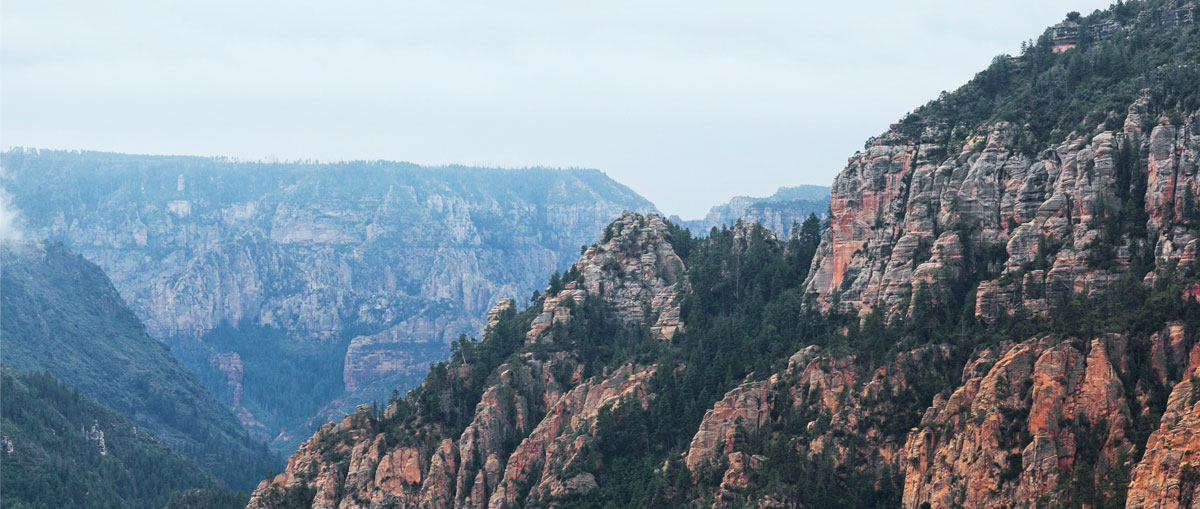
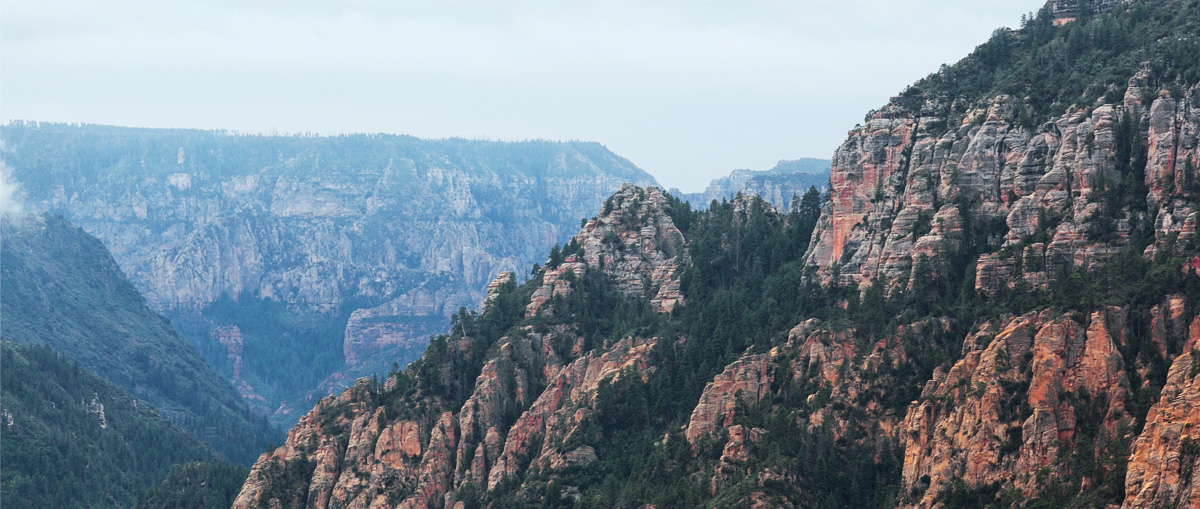
Исправление замечаний
- заменил фоновое изображение intro

index.html
- Убрал лишние br, подправил отступы, чтобы все смотрелось как на макете
- заменил дефис короткий на длинный как в макете

diff --git a/index.html b/index.html
@@ -28,15 +28,15 @@
         <section class="advantages">
           <div class="advantages-title">
             <h2 class="visually-hidden">Преимущества</h2>
-            <p class="advantages-description">Седона — небольшой городок в Аризоне, заслуживающий большего!</p>
+            <p class="advantages-description">Седона &mdash; небольшой городок в Аризоне, заслуживающий большего!</p>
             <p class="advantages-intro">Рассмотрим 5 причин, по которым Седона круче, чем гранд каньон!</p>
           </div>
 
           <div class="advantage-wide">
             <div class="advantage-text">
-              <h3>Настоящий<br> городок</h3>
-              <p>-№1-</p>
-              <p>Седона - не аттракцион для туристов, там течет своя жизнь</p>
+              <h3>Настоящий городок</h3>
+              <p>&mdash; №1 &mdash;</p>
+              <p>Седона &mdash; не аттракцион для туристов, там течет своя жизнь</p>
             </div>
             <div class="advantage-image">
               <img src="img/advantage-1.jpg" alt="Улицы города Седона" width="800" height="401">
@@ -52,7 +52,7 @@
             <div class="feature">
             <img src="img/icon-2-burger.svg" alt="Еда" width="64" height="76">
               <h3>Еда</h3>
-              <p>Всегда щакащывайте фирменный бургер, вы не разочаруетесь!</p>
+              <p>Всегда заказывайте фирменный бургер, вы не разочаруетесь!</p>
             </div>
             <div class="feature">
             <img src="img/icon-3-gift.svg" alt="Сувениры" width="74" height="70">
@@ -67,26 +67,26 @@
             </div>
             <div class="advantage-text">
               <h3>Там есть<br> мост дьявола</h3>
-              <p>-№2-</p>
+              <p>&mdash; №2 &mdash;</p>
               <p>Да, по нему можно пройти! Если конечно вы осмелитесь</p>
             </div>
           </div>
 
           <div class="advantages-list">
             <div class="advantage">
-              <h3>Небольшая<br> площадь</h3>
-              <p>-№3-</p>
-              <p>Все достопримечательности находятся очень близко</p>
+              <h3>Небольшая площадь</h3>
+              <p>&mdash; №3 &mdash;</p>
+              <p>Все достопримечательности находятся&nbsp;очень близко</p>
             </div>
             <div class="advantage">
-              <h3>Красивая<br> дорога</h3>
-              <p>-№4-</p>
-              <p>Ехать в Седону из Лас-Вегаса совсем не скучно!</p>
+              <h3>Красивая дорога</h3>
+              <p>&mdash; №4 &mdash;</p>
+              <p>Ехать в Седону из Лас-Вегаса совсем не&nbsp;скучно!</p>
             </div>
             <div class="advantage">
-              <h3>Мало<br> туристов</h3>
-              <p>-№5-</p>
-              <p>Большинстов едет в гранд каньон и толпится там</p>
+              <h3>Мало туристов</h3>
+              <p>&mdash; №5 &mdash;</p>
+              <p>Большинстов едет в гранд каньон и&nbsp;толпится там</p>
             </div>
           </div>
         </section>
@@ -139,7 +139,6 @@
           </div>
         </section>
         <section class="main-map">
-          <!-- Здесь будет интерактивная карта-->
           <h2 class="visually-hidden">Как до нас добраться</h2>
           <img src="img/map.jpg" width="1200" height="594" alt="Google maps">
         </section>

diff --git a/css/style.css b/css/style.css
@@ -52,6 +52,7 @@ input[type="radio"].visually-hidden {
   /* изменил позиционирование, чтобы при переполнении лого не уезжало вниз */
   position: absolute;
   width: 140px;
+  top: -1px;
   left: 50%;
   margin-left: -70px;
   order: 2;
@@ -65,7 +66,7 @@ input[type="radio"].visually-hidden {
 }
 .main-navigation li {
   width: 240px;
-  padding: 15px 0;
+  padding: 14px 0 16px 0;
   text-align: center;
 }
 .main-navigation li:nth-child(4n+2) {
@@ -117,9 +118,11 @@ input[type="radio"].visually-hidden {
   line-height: 21px;
   margin: 0;
   margin-bottom: 24px;
+  padding: 0 75px;
+  word-wrap: break-word;
 }
 .advantages-title {
-  margin-bottom: 50px;
+  margin-bottom: 51px;
 }
 .advantages-description,
 .advantages-intro {
@@ -167,7 +170,7 @@ input[type="radio"].visually-hidden {
 .feature {
   box-sizing: border-box;
   width: 33.333333%;
-  padding: 55px 49px 70px 49px;
+  padding: 57px 49px 60px 49px;
 }
 .feature img {
   width: 75px;
@@ -180,6 +183,7 @@ input[type="radio"].visually-hidden {
 .features p,
 .advantages-list p {
   color: #333333;
+  word-wrap: break-word;
 }
 .advantages-list {
   display: flex;
@@ -200,7 +204,7 @@ input[type="radio"].visually-hidden {
 }
 .search-description {
   margin-top: 23px;
-  margin-bottom: 50px;
+  margin-bottom: 47px;
   padding: 0 360px;
   font-size: 14px;
   line-height: 24px;
@@ -252,9 +256,6 @@ input[type="radio"].visually-hidden {
   position: relative;
   margin-top: 0;
   margin-bottom: 30px;
-}
-.search-popup p:nth-child(1) {
-  margin-top: 0;
 }
 .search-popup label {
   width: 110px;
@@ -328,7 +329,7 @@ input[type="radio"].visually-hidden {
 }
 .form-half-column {
   display: flex;
-  margin-bottom: 20px;
+  margin-bottom: 23px;
 }
 .half-column {
   width: 226px;
@@ -341,6 +342,10 @@ input[type="radio"].visually-hidden {
   width: 114px;
   padding: 0 38px;
   text-align: center;
+}
+.main-map {
+  line-height: 0;
+  font-size: 0;
 }
 
 /* Main footer on all pages */
@@ -431,18 +436,19 @@ input[type="radio"].visually-hidden {
 
 .catalog-filter {
   display: flex;
-  padding: 30px 70px;
+  padding: 27px 72px 32px 72px;
 }
 .catalog-filter fieldset {
   box-sizing: border-box;
   margin: 0;
   padding: 0;
   border: none;
-  width: 250px;
-  padding-right: 10px;
+  width: 255px;
 }
 .catalog-filter legend{
-  margin-bottom: 25px;
+  font-size: 16px;
+  line-height: 21px;
+  margin-bottom: 24px;
 }
 .catalog-filter fieldset:nth-child(2) {
   margin-right: auto;
@@ -458,7 +464,7 @@ input[type="radio"].visually-hidden {
 }
 .catalog-filter li {
   position: relative;
-  margin-bottom: 22px;
+  margin-bottom: 25px;
   padding-left: 40px;
 }
 .catalog-filter li:last-child {
@@ -479,7 +485,7 @@ input[type="radio"].visually-hidden {
   background-image: url("../img/checkbox-on.svg");
 }
 .catalog-filter .filter-range {
-  width: 330px;
+  width: 318px;
   padding-right: 0;
 }
 .filter-range  legend{
@@ -488,7 +494,7 @@ input[type="radio"].visually-hidden {
 
 .filter-range-price {
   position: relative;
-  height: 34px;
+  height: 32px;
   border: 2px solid #ffffff;
   border-radius: 2px;
   margin-bottom: 20px;
@@ -507,11 +513,14 @@ input[type="radio"].visually-hidden {
 .filter-range-price label {
   display: inline-block;
   vertical-align: top;
-  width: 98px;
+  width: 90px;
   padding-left: 65px;
   font-size: 14px;
   line-height: 34px;
   cursor: pointer;
+}
+.filter-range-price label.cost-day-max {
+  padding-left: 55px;
 }
 .filter-range-price input {
   width: 50px;
@@ -528,7 +537,7 @@ input[type="radio"].visually-hidden {
 
 .filter-range-control {
   position: relative;
-  margin-bottom: 30px;
+  margin-bottom: 32px;
 }
 .filter-range-control .scale{
   height: 2px;
@@ -563,7 +572,7 @@ input[type="radio"].visually-hidden {
 .catalog-filter button[type="submit"] {
   display: block;
   margin: 0 auto;
-  padding: 6px 35px;
+  padding: 6px 35px 5px 35px;
   line-height: 21px;
   color: #ffffff;
   text-transform: uppercase;
